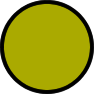
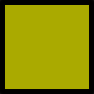
Muchas cosas en el electric eye
DR cuadrado, eventos sin loc, etc

diff --git a/apps/electriceye.py b/apps/electriceye.py
@@ -32,7 +32,8 @@ tileurl =  'http://www.google.cn/maps/vt?lyrs=s@189&gl=cn&x={x}&y={y}&z={z}'
 volcanes =gdb.get_metadata_volcan('*',rep='y')
 volcanes = volcanes.drop_duplicates(subset='nombre', keep="first")
 iconUrl_volcan = app.get_asset_url('img/triangle.fw.png?random='+str(random())) 
-sizescale=7
+sizescaleml=7
+sizescaledr=1/20
 client = Client()
 def dibujar_mapa(eventos):
     volcanes_star=[]
@@ -43,8 +44,19 @@ def dibujar_mapa(eventos):
     evs=[]
     i=0
     for index,row in eventos.iterrows():
-        size=row.ml*sizescale
-        evs.append(dl.Marker(position=[row.latitud,row.longitud],zIndexOffset=-5000,
+        if row.latitud==0:
+            lat = (volcanes[volcanes.id==row.idvolc].latitud.iloc[0])
+            lon = (volcanes[volcanes.id==row.idvolc].longitud.iloc[0])
+            size=0
+        else:
+            lat = row.latitud
+            lon = row.longitud
+            if row.tipoevento in ['VT','VD']:
+                size=row.ml*sizescaleml
+            else:
+                size=sizescaledr*row.dr
+            
+        evs.append(dl.Marker(position=[lat,lon],zIndexOffset=-5000,
                                     icon=dict(iconUrl=app.get_asset_url('img/'+row.tipoevento+'.png?random='+str(random())) , 
                                               iconSize=[size,size],iconAnchor=[size/2,size/2]),id={'type':'evento-mapa','index':i}))
         i=i+1
@@ -55,6 +67,7 @@ def dibujar_mapa(eventos):
     
     legend_entry=['Tipo de evento']
     if len(eventos)>0:
+        eventos=eventos[eventos.profundidad!=-1]
         for entrada in eventos.tipoevento.unique():
             sym=app.get_asset_url('img/'+entrada+'.png?random='+str(random())) 
             if entrada=='LV':entrada='VLP'
@@ -73,7 +86,16 @@ def dibujar_mapa(eventos):
     leyenda_ml_tabla = html.Table(html.Tr(leyenda_ml_tabla_entry,style={'display':'table-cell'}))
     leyenda_ml = html.Div(leyenda_ml_tabla, style={"position": "absolute", "bottom": "20px", "right": "10px", "z-index": "1000"})
     
-    contenidomapa = [dl.TileLayer(id="tiles", url=tileurl),escala,leyenda,leyenda_ml,*volcanes_star,*evs]
+    if any(item in ['LP','EX','TO','TR','LV'] for item in eventos.tipoevento.unique()):
+        leyenda_dr_tabla_entry=['DR']
+        sym=app.get_asset_url('img/DR.png?random='+str(random()))
+        for i in [100,250,500]:
+            icono = html.Img(src=sym,height=i*sizescaledr,width=i*sizescaledr)
+            leyenda_dr_tabla_entry.append(html.Td(html.Div([icono,' '+str(int(i))])))    
+            leyenda_dr_tabla = html.Table(html.Tr(leyenda_dr_tabla_entry,style={'display':'table-cell'}))
+            leyenda_dr = html.Div(leyenda_dr_tabla, style={"position": "absolute", "bottom": "20px", "left": "10px", "z-index": "1000"})    
+    
+    contenidomapa = [dl.TileLayer(id="tiles", url=tileurl),escala,leyenda,leyenda_ml,leyenda_dr,*volcanes_star,*evs]
 
 
     
@@ -87,12 +109,29 @@ def get_fechahoy():
     ffin = dt.datetime.strftime(dt.datetime.utcnow() + dt.timedelta(days=1), '%Y-%m-%d')
     return fini,ffin
 
-def get_lista(ini=True,sel=0):
-    
+def get_eventos_destacados():
     inicio,final=get_fechahoy()
-    eventos = gdb.extraer_eventos(inicio,final,volcan='*',ML='>2')
+    eventos = gdb.extraer_eventos(inicio,final,volcan='*')
     eventos = pd.DataFrame(eventos)
+    #ml general
+    eventosml = eventos[eventos.ml>2]
+    #dr general
+    eventosdr = eventos[eventos.dr>=500]
+    #dr villarrica
+    eventosdr_villarrica = eventos[(eventos.idvolc==28) & (eventos.dr>=30)]
+    
+    eventos = pd.concat([eventosml,eventosdr,eventosdr_villarrica])
     eventos = eventos.sort_values(by='fecha',ascending=False).head(20)
+    eventos.fecha = eventos.fecha.astype('datetime64[s]')
+    eventos = eventos.drop_duplicates(subset='fecha', keep="first")
+    eventos = eventos.fillna({'profundidad':-1,'ml':0})
+    eventos.latitud = np.where(eventos.latitud.isnull(),eventos.idvolc.map(volcanes.set_index('id')['latitud']),eventos['latitud']).astype(float)
+    eventos.longitud = np.where(eventos.longitud.isnull(),eventos.idvolc.map(volcanes.set_index('id')['longitud']),eventos['longitud']).astype(float)
+    return eventos
+
+def get_lista(ini=True,sel=0):
+    eventos = get_eventos_destacados()
+
     listgroupitems_eventos=[]
     inputs_listaev =[]
     i=0
@@ -108,14 +147,26 @@ def get_lista(ini=True,sel=0):
         direccion = ffut.direccion_geo(result['backazimuth'])[0]
         direccion_largo = ffut.direccion_geo(result['backazimuth'])[1]
         distancia = np.round(result['distancemeters']/1000,1)
-                            
-        texto1 = str(distancia)+' km al '+direccion+' del '+volcanes[volcanes.id==row.idvolc].vol_tipocorto+' '+volcan
+        if row.profundidad==-1:
+            texto1='Sin localizacion - '+volcanes[volcanes.id==row.idvolc].vol_tipocorto+' '+volcan
+            tituloprof=''
+            prof=''
+        else:
+            texto1 = str(distancia)+' km al '+direccion+' del '+volcanes[volcanes.id==row.idvolc].vol_tipocorto+' '+volcan
+            tituloprof='Prof'
+            prof=str(np.round(row.profundidad,1))+' km'
         fechastr = (str(row.fecha)[0:19])
+        if row.tipoevento in ['VT','VD','HB']:
+            tituloenergia = 'ML'
+            energia = row.ml
+        else:
+            tituloenergia = 'DR'
+            energia = int(row.dr)
         texto = fechastr+ ' - '+row.tipoevento
-        divtext = html.Div([dbc.Row([dbc.Col(texto1,width=10),dbc.Col('Prof',width=2)],no_gutters=True),
-                         dbc.Row([dbc.Col(texto,width=10),dbc.Col(str(np.round(row.profundidad,1))+' km',width=2)],no_gutters=True)])
-        divML = html.Div([dbc.Row(['ML'],style={'font-weight':'bold','color':'white'}),
-                          dbc.Row([row.ml],style={'font-weight':'bold','color':'white'})])
+        divtext = html.Div([dbc.Row([dbc.Col(texto1,width=10),dbc.Col(tituloprof,width=2)],no_gutters=True),
+                         dbc.Row([dbc.Col(texto,width=10),dbc.Col(prof,width=2)],no_gutters=True)])
+        divML = html.Div([dbc.Row([tituloenergia],style={'font-weight':'bold','color':'white'}),
+                          dbc.Row([energia],style={'font-weight':'bold','color':'white'})])
         texto = dbc.Row([dbc.Col(divML,width=1),dbc.Col(divtext,width=11)],no_gutters=True)
         
 
@@ -145,9 +196,8 @@ def get_carddatoev(eventosel,volcansel):
     direccion = ffut.direccion_geo(result['backazimuth'])[0]
     direccion_largo = ffut.direccion_geo(result['backazimuth'])[1]
     distancia = np.round(result['distancemeters']/1000,1)
-    titulo='ML '+str(eventosel.ml.iloc[0])+' - '+str(distancia)+' km al '+direccion+' del '+volcansel.vol_tipo.iloc[0]+' '+volcansel.nombre.iloc[0]
-
     
+    titulo='ML '+str(eventosel.ml.iloc[0])+' - '+str(distancia)+' km al '+direccion+' del '+volcansel.vol_tipo.iloc[0]+' '+volcansel.nombre.iloc[0]
     fila1 =  html.Tr([html.Td("Fecha"), html.Td(str(eventosel.fecha.iloc[0])[0:19].replace('T',' '))])
     fila2 =  html.Tr([html.Td("Latitud"), html.Td(str(eventosel.latitud.iloc[0])+'°')])
     fila3 =  html.Tr([html.Td("Longitud"), html.Td(str(eventosel.longitud.iloc[0])+'°')])
@@ -160,6 +210,9 @@ def get_carddatoev(eventosel,volcansel):
                                     ],vertical=True,style={'width':'100%'}
         
         )
+    if eventosel.profundidad.iloc[0]==-1:
+        table=[]
+        titulo = "Sin localización"
     card = dbc.Card(
     dbc.CardBody(
         [
@@ -290,7 +343,10 @@ def elegir_evento(values,marker,cajita,active,panes):
         zoom=7
         index_sel = int(dash.callback_context.triggered[0]['prop_id'].split('.')[0].split(',')[0][9:])
         
+
+        
         center = [eventos[eventos.index==index_sel].latitud.iloc[0],eventos[eventos.index==index_sel].longitud.iloc[0]]
+        
     volcansel = volcanes[volcanes.id==eventos[eventos.index==index_sel].idvolc.iloc[0]]  
     activelist=np.full(len(values),False)
     activelist[index_sel]=True
@@ -299,12 +355,21 @@ def elegir_evento(values,marker,cajita,active,panes):
     panelist=np.full(len(values),-5000)
     panelist[index_sel]=5000
     for index,row in eventos.iterrows():
-        size=sizescale*row.ml
+        if row.tipoevento in ['VT','VD']:
+            size=sizescaleml*row.ml
+        else:
+            size=sizescaledr*row.dr
         colorev.append(dict(iconUrl=app.get_asset_url('img/'+row.tipoevento+'.png?random='+str(random())) , 
                                           iconSize=[size,size],iconAnchor=[size/2,size/2]))
     eventosel=eventos[eventos.index==index_sel]
-    sizesel = eventosel.ml.iloc[0]*sizescale
-    colorev[index_sel]=dict(iconUrl=app.get_asset_url('img/greydot.fw.png?random='+str(random())) , 
+    if eventosel.tipoevento.iloc[0] in ['VT','VD']:
+        sizesel = eventosel.ml.iloc[0]*sizescaleml
+        icono=app.get_asset_url('img/greydot.fw.png?random='+str(random()))
+    else:
+        sizesel = eventosel.dr.iloc[0]*sizescaledr
+        icono=app.get_asset_url('img/DR.png?random='+str(random()))
+        
+    colorev[index_sel]=dict(iconUrl=icono , 
                                           iconSize=[sizesel,sizesel],iconAnchor=[sizesel/2,sizesel/2])
 
     datosev = get_carddatoev(eventosel,volcansel)

diff --git a/scripts_aux/test.py b/scripts_aux/test.py
@@ -9,9 +9,28 @@ import ovdas_SeismicProc_lib as sp
 import datetime as dt
 import ovdas_ovdapp_lib as oap
 import pandas as pd
-
-df = gdb.extraer_eventos('2020-01-01', '2020-01-02', 'NevChillan')
-df= pd.DataFrame(df)
-
+import numpy as np
 volcanes =gdb.get_metadata_volcan('*',rep='y')
 volcanes = volcanes.drop_duplicates(subset='nombre', keep="first")
+def get_fechahoy(): 
+    fini = dt.datetime.strftime(dt.datetime.utcnow() - dt.timedelta(days=7), '%Y-%m-%d')
+    ffin = dt.datetime.strftime(dt.datetime.utcnow() + dt.timedelta(days=1), '%Y-%m-%d')
+    return fini,ffin
+
+inicio,final=get_fechahoy()
+eventos = gdb.extraer_eventos(inicio,final,volcan='*')
+eventos = pd.DataFrame(eventos)
+#ml general
+eventosml = eventos[eventos.ml>2]
+#dr general
+eventosdr = eventos[eventos.dr>=500]
+#dr villarrica
+eventosdr_villarrica = eventos[(eventos.idvolc==28) & (eventos.dr>=30)]
+
+eventos = pd.concat([eventosml,eventosdr,eventosdr_villarrica])
+eventos = eventos.sort_values(by='fecha',ascending=False).head(20)
+eventos.fecha = eventos.fecha.astype('datetime64[s]')
+eventos = eventos.drop_duplicates(subset='fecha', keep="first")
+eventos = eventos.fillna({'profundidad':-1,'ml':0})
+eventos.latitud = np.where(eventos.latitud.isnull(),eventos.idvolc.map(volcanes.set_index('id')['latitud']),eventos['latitud']).astype(float)
+eventos.longitud = np.where(eventos.longitud.isnull(),eventos.idvolc.map(volcanes.set_index('id')['longitud']),eventos['longitud']).astype(float)
